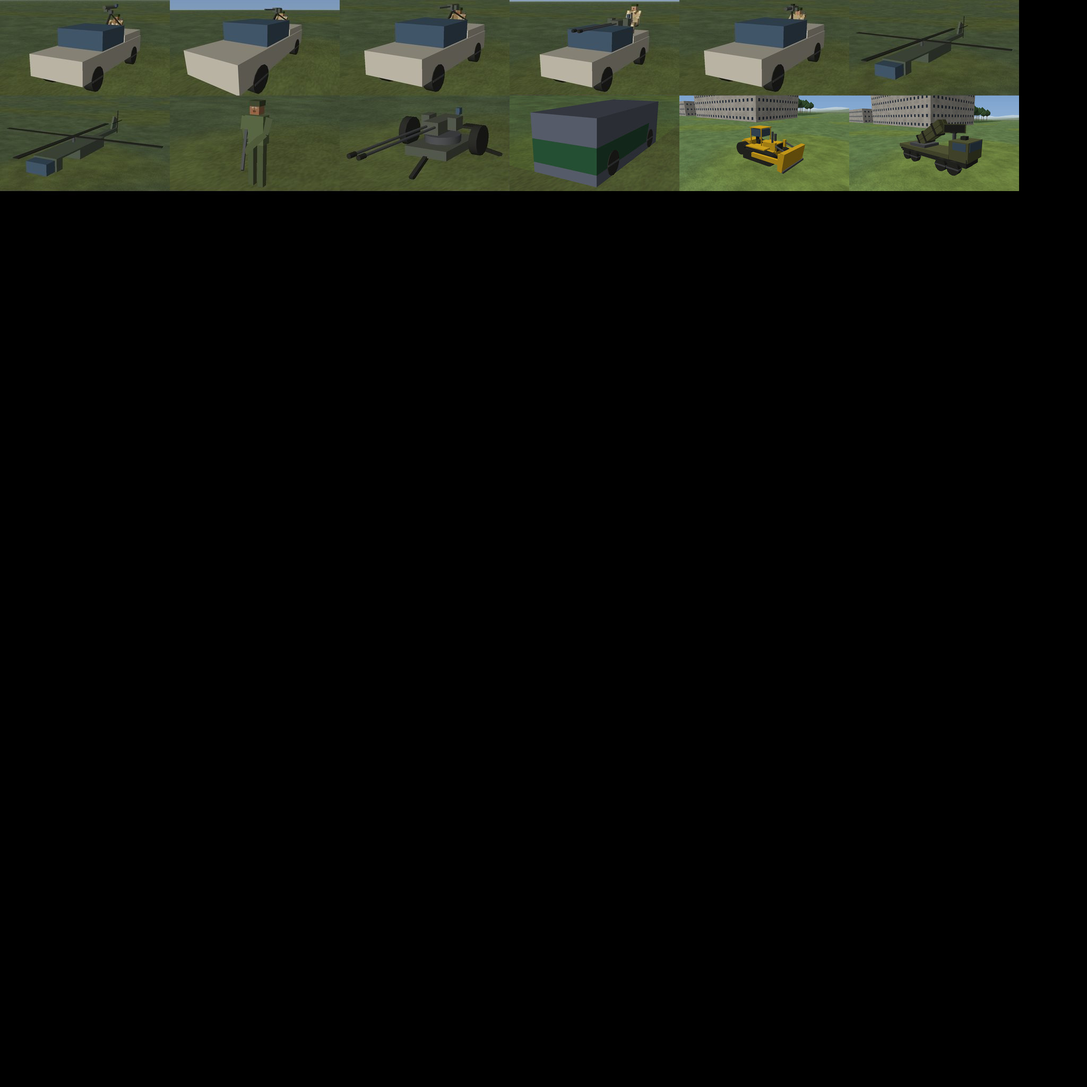
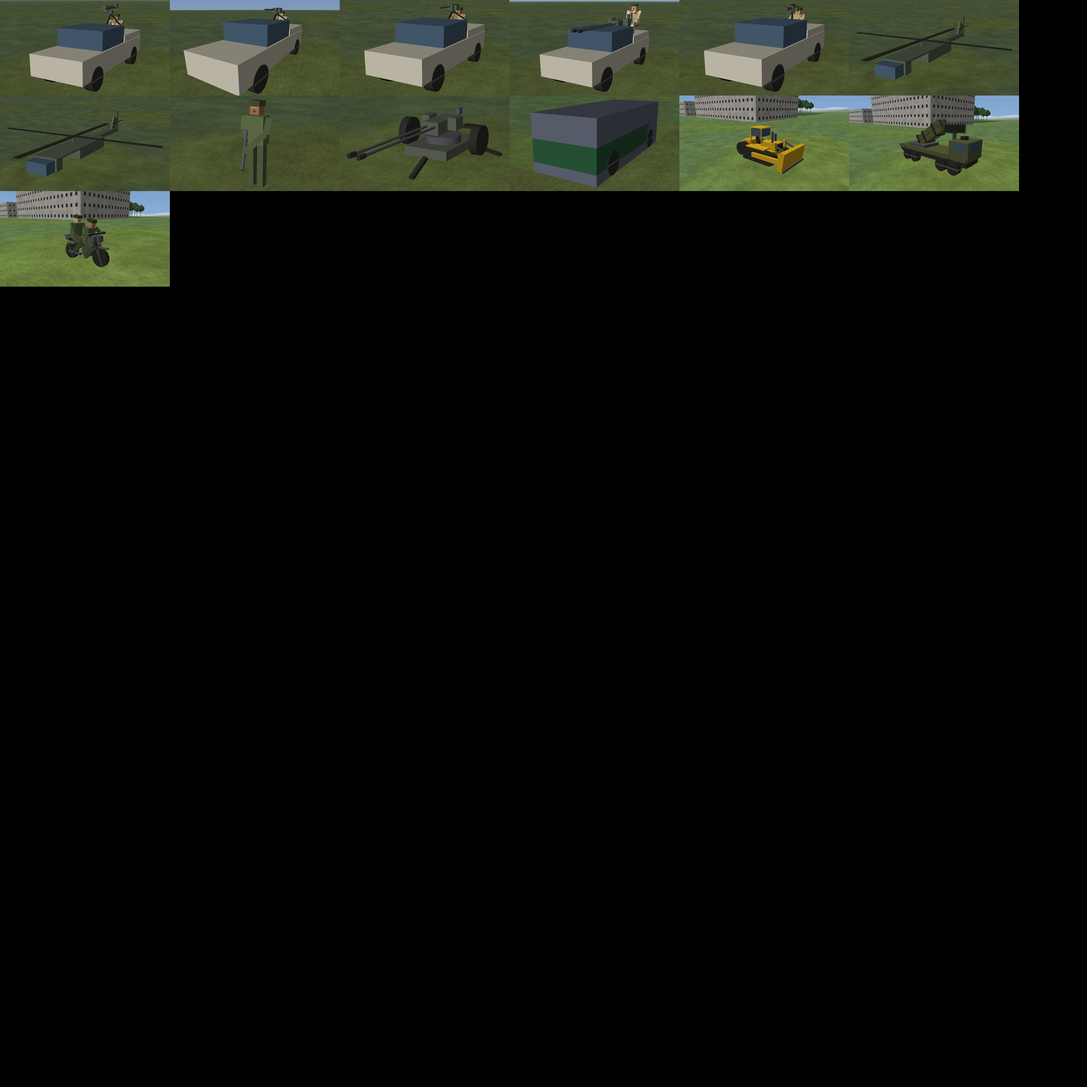
CE-4621 M-1v: bound to backend's type 115 / class Motorcycle / seats (Ride poses, kit fitted to its seat numbers), picker glyph + catalog goldens, thumbnail (atlas 79)
Cross-lane (said): NedTkbCatalog Motorcycle seats Pose Sit -> Ride and IconName car -> _motorcycle. The rider's seat has an arc (PF-4): it always stays on the bars; its wedge is drawn dimmer.

Claude-Session: https://claude.ai/code/session_018A6b3V2pAUU7h7gX44hUPF

Changed region(s): [[0.0, 0.1562, 0.1562, 0.2812]]

diff --git a/Hrot/Engine/Hrot.Presentation.Tests/Map3D/MotorcycleModelRail.cs b/Hrot/Engine/Hrot.Presentation.Tests/Map3D/MotorcycleModelRail.cs
@@ -23,39 +23,18 @@ namespace Hrot.Presentation.Tests.Map3D;
 /// ⭐⭐ <c>CE-4621</c> (motorcycle, docs/designs/vehicle-tactics/DESIGN_Motorcycle.md §2a, §6 M-1v; mockup <c>motorcycle-visuals.svg</c>; 🔒 user, 2026-11-15: <i>"the UI might take the visual part
 /// of it"</i>) — the motorcycle's 3-D model: the family and its kit (TWO wheels that roll, a tank, a long seat), the bank into a turn (a drawing only, 0 B), the two seated riders
 /// (<see cref="SeatPose.Ride"/>: the driver on the bars, a pillion holding on) and the pillion FIRING — his upper body turned to the aim, the rifle shouldered — on the real frame.
-/// ⏳ Type 115 / class <c>Motorcycle</c> / the seats are backend's (CE-4621 M-1 / M-2): until they land the rail draws a STAND-IN type (<see cref="StandIn"/>) with the agreed ids' shape
-/// (DIS 1.1.*.80.1, seat 0 Driver, seat 1 the pillion with an arc), its look pinned. ⛔ The frame tests SKIP without a display:
+/// ✅ Type 115 / class <c>Motorcycle</c> / the seats are backend's (CE-4621 M-1 / M-2, merged): the rail draws the REAL type through the real catalogue. ⛔ The frame tests SKIP without a display:
 /// <c>xvfb-run -a dotnet test … --filter FullyQualifiedName~MotorcycleModelRail</c>. 🔴 Red-proof: the bank removed from the layer fails the bank rail; the twist removed from
 /// <c>SeatedMotion</c> fails the firing-pose rail.
 /// </summary>
 [Collection(Map3DFrameRail.Serial)]
 public sealed class MotorcycleModelRail
 {
-    /// <summary>The stand-in's TKB id (never a shipped one) and size — backend's type 115 is 2.1 × 0.8 × 1.15 m by the kit's measure.</summary>
-    internal const long StandIn = 9115;
-    private static readonly Vector3 Size = new(2.1f, 0.8f, 1.15f);
+    /// <summary>⭐ Backend's REAL type 115 (CE-4621 M-1 / M-2: DIS 1.1.0.80.1, class <c>Motorcycle</c>, seat 0 the rider / Driver — fires only stopped, an arc −120…120 —, seat 1 the pillion, a firing seat 30…330), through the real catalogue.</summary>
+    internal const long StandIn = TkbEntityTypes.Motorcycle;
+    private static readonly Vector3 Size = new(2.1f, 0.8f, 1.2f);
 
-    /// <summary>The stand-in motorcycle in a TKB: the agreed shape of backend's type — DIS 1.1.0.80.1, seat 0 the Driver, seat 1 a pillion with an arc (both exposed, astride).</summary>
-    internal static Fdp.Toolkit.Tkb.TkbDatabase WithStandIn()
-    {
-        var db = Map3DTests.BuiltIn();
-        new Hrot.Map.Definitions.Tkb.NedTkbBuilder(db)
-            .DefineVehicle(StandIn, "Motorcycle (stand-in)")
-            .WithPhysics(StandIn, p => { p.Length = Size.X; p.Width = Size.Y; p.Height = Size.Z; p.MaxSpeed = 28f; p.Mobility = Hrot.Map.Definitions.Tkb.TerrainMobility.Wheeled; })
-            .WithCarrier(StandIn, new CarrierDefDto
-            {
-                Exposure = PassengerExposure.Open,
-                Seats =
-                {
-                    new SeatDto { Role = SeatRole.Driver, X = 0.02f, Z = 0.90f, Pose = SeatPose.Ride },
-                    new SeatDto { Role = SeatRole.Passenger, X = -0.52f, Z = 0.90f, Pose = SeatPose.Ride, TraverseMinDeg = 70f, TraverseMaxDeg = 290f },
-                },
-            })
-            .WithDisType(StandIn, new DISEntityType { Kind = 1, Domain = 1, Category = 80, Subcategory = 1 });
-        return db;
-    }
-
-    private static EntityBodyLayer3D.TypeLook StandInLook() => new(VisualFamily.Motorcycle, Size, EntityBodyLayer3D.DefaultColour(VisualFamily.Motorcycle), false);
+    internal static Fdp.Toolkit.Tkb.TkbDatabase WithStandIn() => Map3DTests.BuiltIn();
 
     // ── the kit ─────────────────────────────────────────────────────────────────────────────────────────────────────────────────
 
@@ -97,9 +76,33 @@ public sealed class MotorcycleModelRail
         Assert.InRange(minX, -1.15f, -0.95f);  // the rack / rear tyre
         Assert.InRange(maxY, 0.3f, 0.45f);     // the bars' grips
         Assert.InRange(minZ, -0.05f, 0.05f);   // on its wheels
-        Assert.InRange(maxZ, 1.0f, 1.2f);      // the bars
+        Assert.InRange(maxZ, 1.0f, 1.25f);     // the bars
         var wheels = ShapeKits.Motorcycle.Parts.Where(p => p.Role == PartRole.WheelSpoke).Select(p => p.BodyTransform(Size).Translation).OrderBy(t => t.X).ToArray();
         Assert.InRange(wheels[1].X - wheels[0].X, 1.3f, 1.5f);   // a 1.4 m wheelbase
+    }
+
+    /// <summary>⭐ CE-4621 — backend's class <c>Motorcycle</c> (DIS <c>1.1.*.80</c>, type 115) maps to the family, and the REAL type's family, size, seats and kit are the bike's: the kit's metres ARE the TKB's metres, both seats are astride, the hips are where the kit's seat is.</summary>
+    [Fact]
+    public void TheClass_MapsToTheFamily_AndTheRealType115IsTheBike_ItsSeatsAstride_ItsHipsOnTheKitsSeat()
+    {
+        Assert.Equal(VisualFamily.Motorcycle, VisualFamilies.FamilyOfClass["Motorcycle"]);
+        var bike = Map3DTests.BuiltIn().GetByType(TkbEntityTypes.Motorcycle)!;
+        Assert.Equal(VisualFamily.Motorcycle, VisualFamilies.Of(bike));
+        var tkb = Map3DTests.BuiltIn();
+        using var world = new EntityRepository();
+        var look = new EntityBodyLayer3D(() => world, () => tkb, (w, e) => ArticulationPose.Neutral).LookOf(TkbEntityTypes.Motorcycle, tkb);
+        Assert.Equal(VisualFamily.Motorcycle, look.Family);
+        Assert.InRange(look.Size.X, Size.X - 0.01f, Size.X + 0.01f); Assert.InRange(look.Size.Y, Size.Y - 0.01f, Size.Y + 0.01f);
+        Assert.InRange(look.Size.Z, Size.Z - 0.1f, Size.Z + 0.1f);   // the TKB's box wins: the kit's metres are the TKB's metres (its 1.2 m height may come from the render model)
+        var seats = bike.GetDescriptor<CarrierDefDto>()!.Seats;
+        Assert.Equal(2, seats.Count);
+        Assert.All(seats, s => Assert.Equal(SeatPose.Ride, s.Pose));
+        // the kit's seat carries them: the rider's hips (z 0.75) sit on the low seat (top 0.705), the pillion's (z 0.85) on the raised pad (top 0.805)
+        float TopOfSeatAt(float x) => ShapeKits.Motorcycle.Parts
+            .Where(p => p.Colour == ColourRole.Dark && p.Shape == PartShape.Box && MathF.Abs(p.Extent.Y * Size.Y - 0.28f) < 0.01f && MathF.Abs((p.Centre.X - x / Size.X) * Size.X) < 0.3f)
+            .Max(p => (p.Centre.Z + p.Extent.Z / 2f) * Size.Z);
+        Assert.InRange(seats[0].Z - TopOfSeatAt(seats[0].X), 0.0f, 0.12f);
+        Assert.InRange(seats[1].Z - TopOfSeatAt(seats[1].X), 0.0f, 0.12f);
     }
 
     // ── the motion: the wheels roll, a turn banks the body ──────────────────────────────────────────────────────────────────────
@@ -203,8 +206,8 @@ public sealed class MotorcycleModelRail
         Assert.Equal((CarriageKind.Seated, SeatPose.Ride, SeatRole.Driver), (driver.Kind, driver.Seat!.Pose, driver.Seat.Role));
         Assert.Equal((CarriageKind.Seated, SeatPose.Ride, SeatRole.Passenger), (pillion.Kind, pillion.Seat!.Pose, pillion.Seat.Role));
         Assert.True(pillion.Seat.X < driver.Seat.X, "the pillion sits behind");
-        Assert.Null(driver.Seat.TraverseMinDeg);
-        Assert.NotNull(pillion.Seat.TraverseMinDeg);
+        Assert.True(driver.Seat.FiresStoppedOnly && driver.Seat.TraverseMinDeg != null, "the rider: an arc, fires only stopped (PF-4)");
+        Assert.True(pillion.Seat.TraverseMinDeg != null && !pillion.Seat.FiresStoppedOnly, "the pillion: a firing seat");
     }
 
     // ── ⭐ U-3: the pillion in first person — the HUD cue outside the seat's arc ───────────────────────────────────────────────────
@@ -244,11 +247,13 @@ public sealed class MotorcycleModelRail
         var driver = Rider(0); var pillion = Rider(1);
         var at = new Vector3(100f, 50f, 1f);
         Assert.True(PossessionStation.OutsideSeatArc(world, pillion, at + new Vector3(30f, 0f, 0f)), "dead ahead: across the rider — out of arc");
-        Assert.True(PossessionStation.OutsideSeatArc(world, pillion, at + new Vector3(20f, 20f, 0f)), "45° ahead-left: out of arc");
+        Assert.True(PossessionStation.OutsideSeatArc(world, pillion, at + new Vector3(30f, 8f, 0f)), "15° ahead-left: out of arc");
+        Assert.False(PossessionStation.OutsideSeatArc(world, pillion, at + new Vector3(20f, 20f, 0f)), "45°: in (the arc is 30° … 330°)");
         Assert.False(PossessionStation.OutsideSeatArc(world, pillion, at + new Vector3(0f, 30f, 0f)), "left: in");
         Assert.False(PossessionStation.OutsideSeatArc(world, pillion, at + new Vector3(0f, -30f, 0f)), "right: in");
         Assert.False(PossessionStation.OutsideSeatArc(world, pillion, at + new Vector3(-30f, 0f, 0f)), "behind: in");
-        Assert.False(PossessionStation.OutsideSeatArc(world, driver, at + new Vector3(30f, 0f, 0f)), "the driver's seat states no arc: no cue (his fire is held by the move gate, PF-4)");
+        Assert.False(PossessionStation.OutsideSeatArc(world, driver, at + new Vector3(30f, 0f, 0f)), "the rider's arc is the front and sides (−120° … 120°): ahead is in");
+        Assert.True(PossessionStation.OutsideSeatArc(world, driver, at + new Vector3(-30f, 0f, 0f)), "behind the rider: out of his arc");
         // the bike turns right 90° (heading −y): what was behind is now to its left-rear... and "ahead" of the world is its left side
         world.SetComponent(bike, new SimTransform { Position = new Vector3(100f, 50f, 0f), Rotation = Quaternion.CreateFromAxisAngle(Vector3.UnitZ, -MathF.PI / 2f) });
         Assert.False(PossessionStation.OutsideSeatArc(world, pillion, at + new Vector3(30f, 0f, 0f)), "world +x is the turned bike's LEFT: in");
@@ -257,7 +262,7 @@ public sealed class MotorcycleModelRail
         var foot = world.CreateEntity();
         world.AddComponent(foot, new SimTransform { Position = Vector3.Zero, Rotation = Quaternion.Identity });
         Assert.False(PossessionStation.OutsideSeatArc(world, foot, new Vector3(30f, 0f, 0f)));
-        for (int i = 0; i < 100; i++) PossessionStation.OutsideSeatArc(world, pillion, at + new Vector3(30f, 0f, 0f));
+        for (int i = 0; i < 5000; i++) PossessionStation.OutsideSeatArc(world, pillion, at + new Vector3(30f, 0f, 0f));   // warm (the tiered JIT too)
         long before = GC.GetAllocatedBytesForCurrentThread();
         for (int i = 0; i < 2000; i++) PossessionStation.OutsideSeatArc(world, pillion, at + new Vector3(30f, 0f, 0f));
         Assert.Equal(0L, GC.GetAllocatedBytesForCurrentThread() - before);   // ⭐ per-frame HUD: 0 B
@@ -283,7 +288,7 @@ public sealed class MotorcycleModelRail
         Assert.True(SeatSwitch.TryEye(world, Rider(1), db, out var pillion));
         Assert.True(driver.Y > pillion.Y + 0.4f, $"facing +y: the driver is ahead of the pillion ({driver} / {pillion})");
         Assert.InRange(driver.X, 99.9f, 100.1f);
-        Assert.InRange(driver.Z, 3f + 0.9f + 0.5f, 3f + 0.9f + 0.8f);   // the seat's z + his eyes above his hips
+        Assert.InRange(driver.Z, 3f + 0.75f + 0.5f, 3f + 0.75f + 0.9f);   // the seat's z + his eyes above his hips
     }
 
     /// <summary>⭐ The fire arc on the maps (mockup panels C, D): the selected bike's pillion seat draws an amber wedge, its edges and arc, from the seat's place; the driver's seat (no arc) and a station draw nothing.</summary>
@@ -298,20 +303,19 @@ public sealed class MotorcycleModelRail
         world.AddComponent(bike, new TkbIdentity { TkbType = (TkbTypeId)StandIn });
         var draw = new ArcDraw();
         new Hrot.ScenarioEditor.Gizmos.SeatArcGizmo().Draw(world, bike, draw);
-        // 70 … 290 = 220° of arc: two edges + 22 segments, all from / around the pillion's place (x −0.52 behind the reference point)
-        Assert.Equal(2 + 22, draw.Lines.Count);
-        var edges = draw.Lines.Take(2).ToArray();
-        Assert.All(edges, l => Assert.Equal(new Vector3(100f - 0.52f, 50f, 0f), l.From));
-        // the first edge is the arc's start (70°, ahead-left), the second its end (290°, ahead-right): neither is dead ahead, both point forward-ish of the sides
-        Assert.True(edges[0].To.X > 100f - 0.52f && edges[0].To.Y > 50f, "70° is left and a little ahead");
-        Assert.True(edges[1].To.X > 100f - 0.52f && edges[1].To.Y < 50f, "290° is right and a little ahead");
-        Assert.All(draw.Lines.Skip(2), l => Assert.InRange(Vector3.Distance(l.From, new Vector3(100f - 0.52f, 50f, 0f)), SeatArcGizmoRange - 0.1f, SeatArcGizmoRange + 0.1f));
-        // the bike turned 180°: the wedge turns with it (the rear is now toward +x)
+        // the rider's arc (−120 … 120 = 240°: two edges + 24 segments) then the pillion's (30 … 330 = 300°: two edges + 30 segments)
+        Assert.Equal(26 + 32, draw.Lines.Count);
+        var pillionOrigin = new Vector3(100f - 0.45f, 50f, 0f);
+        var pillion = draw.Lines.Skip(26).ToArray();
+        Assert.All(pillion.Take(2), l => Assert.Equal(pillionOrigin, l.From));
+        Assert.True(pillion[0].To.X > pillionOrigin.X && pillion[0].To.Y > 50f, "30° is left and ahead");
+        Assert.True(pillion[1].To.X > pillionOrigin.X && pillion[1].To.Y < 50f, "330° is right and ahead");
+        Assert.All(pillion.Skip(2), l => Assert.InRange(Vector3.Distance(l.From, pillionOrigin), SeatArcGizmoRange - 0.1f, SeatArcGizmoRange + 0.1f));
+        // the bike turned 180°: the pillion's wedge turns with it (its rear, the middle of the arc, is now toward +x)
         world.SetComponent(bike, new SimTransform { Position = new Vector3(100f, 50f, 0f), Rotation = Quaternion.CreateFromAxisAngle(Vector3.UnitZ, MathF.PI) });
         var turned = new ArcDraw();
         new Hrot.ScenarioEditor.Gizmos.SeatArcGizmo().Draw(world, bike, turned);
-        Assert.True(turned.Lines.Skip(2).Average(l => l.To.X) > 100f + 10f, "the arc of the rear now lies to +x");
-        Assert.Equal(0, new ArcDraw().Lines.Count);
+        Assert.True(turned.Lines.Skip(26 + 2).Average(l => l.To.X) > 100f + 3f, "the arc of the rear now lies to +x");
     }
 
     private const float SeatArcGizmoRange = Hrot.ScenarioEditor.Gizmos.SeatArcGizmo.Range;
@@ -378,7 +382,6 @@ public sealed class MotorcycleModelRail
         var two = new MapCamera();
         canvas.Camera = two;
         var bodies = new EntityBodyLayer3D(() => world, () => tkb, (w, e) => pose);
-        bodies.PinLook(StandIn, StandInLook());   // ⏳ until backend's class `Motorcycle` is in the table
         var sw = new MapViewSwitch(canvas, two);
         sw.Camera3D.GroundHeight = (x, y) => G(x, y);
         canvas.AddLayer(new TerrainLayer3D(() => WorldQuery.RenderGeometryOf(world)));
@@ -434,6 +437,12 @@ public sealed class MotorcycleModelRail
         var turning = Screen("moto-4-banked-front.png");
         for (int i = 0; i < 40; i++) { Clock(0.05); Place(at, yaw); LookAtBike(7f, yaw + MathF.PI + 0.35f, -0.05f); Render(); }   // stopped: the bank eases off (0.15 s)
         var upright = Screen("moto-4b-upright-front.png");
+        // the gallery picture (the picker's thumbnail), to the scratchpad only: the bike and its two riders alone, at rest, from the front three-quarter
+        foreach (var gone in new[] { target }) world.DestroyEntity(gone);
+        Place(new Vector3(spot.X, spot.Y, ground), 0f);
+        for (int i = 0; i < 40; i++) { Clock(0.05); Render(); }
+        sw.Camera3D.Pose = new CameraPose(new Vector3(spot.X, spot.Y, ground + 0.85f), 4.6f, Side + 0.75f, -0.18f);
+        Screen("moto-6-thumb.png");
         Assert.True(Diff(upright, turning) > 800, $"a turning bike is drawn banked (differs from the upright one by {Diff(upright, turning)} px)");
     }
 

diff --git a/Hrot/Engine/Hrot.Presentation/Map3D/ShapeKit.cs b/Hrot/Engine/Hrot.Presentation/Map3D/ShapeKit.cs
@@ -640,7 +640,7 @@ public static class ShapeKits
         new KitPivots(new Vector2(SamAxisX / SaL, 0f), new Vector2(SamTrunnionX / SaL, SamTrunnionZ / SaH)));
 
     // ── ⭐ CE-4621 (docs/designs/vehicle-tactics/DESIGN_Motorcycle.md §2a, U-2) — the MOTORCYCLE: two wheels, a tank, a long seat, a rack; the riders are men drawn at the seats ─────
-    private const float MoL = 2.1f, MoW = 0.8f, MoH = 1.15f;   // a 250-500 cc bike: 2.1 m long, 0.8 m across the bars, 1.15 m to the bars (the riders sit above)
+    private const float MoL = 2.1f, MoW = 0.8f, MoH = 1.2f;   // backend's type 115: 2.1 m long, 0.8 m across the bars, 1.2 m to the bars (the riders sit above)
     /// <summary>The motorcycle's wheel radius (m) — what its wheels roll on (<see cref="MotionTracker"/>), a 0.62 m tyre.</summary>
     public const float MotoWheelRadius = 0.31f;
 
@@ -664,8 +664,8 @@ public static class ShapeKits
         {
             p.Add(Mo(-0.52f, s * 0.10f, 0.39f, 0.48f, 0.04f, 0.05f, ColourRole.Dark, pitch: -22f));   // the swing arm, from the pivot to the rear axle
             p.Add(Mo(0.65f, s * 0.07f, 0.66f, 0.04f, 0.03f, 0.80f, ColourRole.Metal, pitch: -8f));    // a fork leg, raked back
-            p.Add(Mo(0.18f, s * 0.22f, 0.40f, 0.06f, 0.08f, 0.03f, ColourRole.Metal));                 // the rider's foot peg
-            p.Add(Mo(-0.34f, s * 0.22f, 0.40f, 0.06f, 0.08f, 0.03f, ColourRole.Metal));                // the pillion's foot peg
+            p.Add(Mo(0.26f, s * 0.24f, 0.27f, 0.06f, 0.08f, 0.03f, ColourRole.Metal));                 // the rider's foot peg (his hips are backend's seat 0: x 0.1, z 0.75)
+            p.Add(Mo(-0.29f, s * 0.24f, 0.37f, 0.06f, 0.08f, 0.03f, ColourRole.Metal));                // the pillion's foot peg (seat 1: x −0.45, z 0.85)
             p.Add(Mo(0.55f, s * 0.38f, 1.08f, 0.07f, 0.10f, 0.05f, ColourRole.Dark));                  // a grip
         }
         p.Add(Mo(0.70f, 0f, 0.65f, 0.55f, 0.12f, 0.04f, ColourRole.Body));                    // the front mudguard
@@ -673,8 +673,9 @@ public static class ShapeKits
         p.Add(Mo(0.725f, 0f, 0.93f, 0.02f, 0.16f, 0.16f, ColourRole.Glass));                  // its lens
         p.Add(Mo(0.55f, 0f, 1.08f, 0.05f, 0.74f, 0.04f, ColourRole.Dark));                    // the handlebar
         p.Add(Mo(0.28f, 0f, 0.90f, 0.50f, 0.30f, 0.20f, ColourRole.Body));                    // the fuel tank
-        p.Add(Mo(-0.28f, 0f, 0.80f, 1.05f, 0.28f, 0.09f, ColourRole.Dark));                   // the long seat for two
-        p.Add(Mo(-0.80f, 0f, 0.82f, 0.30f, 0.22f, 0.12f, ColourRole.Body));                   // the tail
+        p.Add(Mo(-0.05f, 0f, 0.66f, 0.60f, 0.28f, 0.09f, ColourRole.Dark));                   // the seat: the rider's low front (top 0.705, his hips at 0.75)
+        p.Add(Mo(-0.50f, 0f, 0.76f, 0.50f, 0.28f, 0.09f, ColourRole.Dark));                   // the pillion's raised pad (top 0.805, his hips at 0.85)
+        p.Add(Mo(-0.82f, 0f, 0.80f, 0.30f, 0.22f, 0.14f, ColourRole.Body));                   // the tail
         p.Add(Mo(-0.92f, 0f, 0.90f, 0.22f, 0.30f, 0.03f, ColourRole.Metal));                  // the rear rack
         p.Add(Mo(-0.72f, 0f, 0.60f, 0.40f, 0.18f, 0.04f, ColourRole.Body));                   // the rear mudguard
         p.Add(Mo(-0.35f, -0.19f, 0.32f, 0.65f, 0.08f, 0.08f, ColourRole.Metal));              // the exhaust, on the right

diff --git a/Hrot/Engine/Hrot.Presentation/ScenarioEditor/Gizmos/SeatArcGizmo.cs b/Hrot/Engine/Hrot.Presentation/ScenarioEditor/Gizmos/SeatArcGizmo.cs
@@ -23,7 +23,7 @@ namespace Hrot.ScenarioEditor.Gizmos
         /// <summary>The wedge's reach (m) and the arc's segment step (degrees).</summary>
         public const float Range = 30f, StepDegrees = 10f;
 
-        private static readonly Rgba32 Amber = new(242, 192, 51, 230);
+        private static readonly Rgba32 Amber = new(242, 192, 51, 230), Stopped = new(170, 140, 70, 150);
 
         public void Draw(ISimulationView view, Entity entity, IDebugDrawBuilder draw)
         {
@@ -40,27 +40,27 @@ namespace Hrot.ScenarioEditor.Gizmos
                 var seat = seats[i];
                 if (seat.TraverseMinDeg is not { } min || seat.TraverseMaxDeg is not { } max || seat.Role == SeatRole.Station) continue;
                 var origin = position + Vector3.Transform(new Vector3(seat.X, seat.Y, 0f), tf.Rotation);
-                Arc(draw, origin, tf.Rotation, min, max);
+                Arc(draw, origin, tf.Rotation, min, max, seat.FiresStoppedOnly ? Stopped : Amber);   // the rider's (fires only stopped) in a dimmer amber
             }
         }
 
         /// <summary>The wedge of <paramref name="min"/> … <paramref name="max"/> (degrees, counter-clockwise from the vehicle's forward, Min round to Max): the two edges and an arc of segments (public for the rail).</summary>
-        public static void Arc(IDebugDrawBuilder draw, Vector3 origin, Quaternion rotation, float minDeg, float maxDeg)
+        public static void Arc(IDebugDrawBuilder draw, Vector3 origin, Quaternion rotation, float minDeg, float maxDeg, Rgba32 colour)
         {
             float span = (maxDeg - minDeg) % 360f;
             if (span <= 0f) span += 360f;
             Vector3 At(float deg) => origin + Vector3.Transform(new Vector3(MathF.Cos(deg * MathF.PI / 180f), MathF.Sin(deg * MathF.PI / 180f), 0f) * Range, rotation);
             if (span < 359.9f)
             {
-                draw.DrawLine(origin, At(minDeg), Amber, thickness: 1.6f, layer: DebugTraceLayers.Actions);
-                draw.DrawLine(origin, At(minDeg + span), Amber, thickness: 1.6f, layer: DebugTraceLayers.Actions);
+                draw.DrawLine(origin, At(minDeg), colour, thickness: 1.6f, layer: DebugTraceLayers.Actions);
+                draw.DrawLine(origin, At(minDeg + span), colour, thickness: 1.6f, layer: DebugTraceLayers.Actions);
             }
             int steps = Math.Max(1, (int)MathF.Ceiling(span / StepDegrees));
             var from = At(minDeg);
             for (int s = 1; s <= steps; s++)
             {
                 var to = At(minDeg + span * s / steps);
-                draw.DrawLine(from, to, Amber, thickness: 1.2f, layer: DebugTraceLayers.Actions, style: LineStyle.Dashed);
+                draw.DrawLine(from, to, colour, thickness: 1.2f, layer: DebugTraceLayers.Actions, style: LineStyle.Dashed);
                 from = to;
             }
         }

diff --git a/Hrot/Engine/Hrot.Presentation.Tests/AddEntity/EntityTypeCatalogTests.cs b/Hrot/Engine/Hrot.Presentation.Tests/AddEntity/EntityTypeCatalogTests.cs
@@ -344,8 +344,8 @@ public sealed class EntityTypeCatalogTests
         // ⭐ CE-4273 (Next_2 A-10) — the seed's 75 + the Car. ⛔ SUPERSEDED: "slot = position in sorted order" — true of the seed only; §2j says a name
         //   KEEPS its slot and an addition takes the next free one (the Car sorts among the C's and sits in slot 75). The invariant now: one cell per
         //   name, on the grid, inside the pages.
-        Assert.Equal(78, idx.Count);   // ⭐ CE-6007 — + the bulldozer (page 1, slot 4/1); ⭐ CE-4618 — + the radar SAM truck (page 1, slot 5/1)
-        Assert.Equal(78, ThumbnailAtlas.Shared.Count);
+        Assert.Equal(79, idx.Count);   // ⭐ CE-6007 — + the bulldozer (page 1, slot 4/1); ⭐ CE-4618 — + the radar SAM truck (page 1, slot 5/1); ⭐ CE-4621 — + the motorcycle (page 1, slot 0/2)
+        Assert.Equal(79, ThumbnailAtlas.Shared.Count);
         Assert.True(idx.TryGet("Car", out _, out _, out _, out _, out _));
 
         var names = idx.Names.ToList();
@@ -609,6 +609,7 @@ public sealed class EntityTypeCatalogTests
         112 Bulldozer (D9-class) | dis 1.1.225.9.1.0.0 | family Bulldozer | folder Platform/Land/United States/Large Tracked Utility Vehicle | icon -
         113 HMMWV (drone jammer) | dis 1.1.225.6.9.0.0 | family WheeledUtility | folder Platform/Land/United States/Small Wheeled Utility Vehicle | icon _wheeled
         114 Radar SAM vehicle | dis 1.1.222.28.1.0.0 | family AirDefenceVehicle | folder Platform/Land/Russia/Air Defence Vehicle | icon _wheeled
+        115 Motorcycle | dis 1.1.0.80.1.0.0 | family Motorcycle | folder Platform/Land/Motorcycle | icon _motorcycle
         200 Rifleman | dis 3.1.225.1.0.0.0 | family Person | folder Life Form/Land/United States/Infantry (HROT) | icon _person
         201 Officer | dis 3.1.225.1.0.0.0 | family Person | folder Life Form/Land/United States/Infantry (HROT) | icon _person
         202 Rifleman (Stinger) | dis 3.1.225.1.0.0.0 | family Person | folder Life Form/Land/United States/Infantry (HROT) | icon _person
@@ -723,6 +724,7 @@ public sealed class EntityTypeCatalogTests
         1.1.*.10 Mortar
         1.1.*.28 Air Defence Vehicle
         1.1.*.50 Weapon System (HROT)
+        1.1.*.80 Motorcycle
         1.1.*.81 Car
         1.2 Air
         1.2.*.1 Fighter/Air Defense

diff --git a/Hrot/Engine/Hrot.Core/MapDefinitions/Tkb/NedTkbCatalog.cs b/Hrot/Engine/Hrot.Core/MapDefinitions/Tkb/NedTkbCatalog.cs
@@ -600,7 +600,7 @@ namespace Hrot.Map.Definitions.Tkb
             const long type = TkbEntityTypes.Motorcycle;
             builder
                 .DefineVehicle(type, "Motorcycle")
-                .WithVisual(type, v => { v.IconName = "car"; v.SymbolCode = "SHGPEVC--------"; v.ColorHex = "#5C5C5C"; v.Scale = 0.6f; })
+                .WithVisual(type, v => { v.IconName = "_motorcycle"; v.SymbolCode = "SHGPEVC--------"; v.ColorHex = "#5C5C5C"; v.Scale = 0.6f; })   // ⭐ ui (CE-4621): IconName = its own picker glyph (assets/icons/_motorcycle)
                 .WithPhysics(type, p =>
                 {
                     p.Mass = 200; p.Length = 2.1f; p.Width = 0.8f; p.Height = 1.2f;
@@ -625,11 +625,11 @@ namespace Hrot.Map.Definitions.Tkb
                     {
                         // ⭐ PF-4 — the rider: a firing seat (front and sides) that fires only while the bike is STOPPED — he drives
                         new SeatDto { Role = Fdp.Toolkit.Behavior.Components.SeatRole.Driver, Exposed = true,
-                                      X = 0.1f, Z = 0.75f, Pose = Fdp.Toolkit.Tkb.Domain.SeatPose.Sit,
+                                      X = 0.1f, Z = 0.75f, Pose = Fdp.Toolkit.Tkb.Domain.SeatPose.Ride,   // ⭐ ui (CE-4621 U-2): astride, the 3-D map's figure
                                       TraverseMinDeg = -120f, TraverseMaxDeg = 120f, FiresStoppedOnly = true },
                         // ⭐ PF-1 — the pillion: a passenger seat with a traverse arc ⇒ a FIRING seat (his own weapon, inside the arc)
                         new SeatDto { Role = Fdp.Toolkit.Behavior.Components.SeatRole.Passenger, Exposed = true,
-                                      X = -0.45f, Z = 0.85f, Pose = Fdp.Toolkit.Tkb.Domain.SeatPose.Sit,
+                                      X = -0.45f, Z = 0.85f, Pose = Fdp.Toolkit.Tkb.Domain.SeatPose.Ride,
                                       TraverseMinDeg = 30f, TraverseMaxDeg = 330f },
                     },
                 })

diff --git a/Hrot/Engine/Hrot.Presentation/Map3D/EntityBodyLayer3D.cs b/Hrot/Engine/Hrot.Presentation/Map3D/EntityBodyLayer3D.cs
@@ -1395,9 +1395,9 @@ public sealed class EntityBodyLayer3D : ISceneLayer, IDisposable   // ⭐ CE-328
     /// <summary>The most a rider on a firing seat turns his upper body off the seat's forward (radians, ~160°) — the seat's own arc is the limit (PF-1), this one only keeps the drawing human.</summary>
     public const float MaxSeatTwist = 160f * MathF.PI / 180f;
 
-    /// <summary>⭐ CE-4621 — a soldier on a FIRING seat (a traverse arc on a non-station seat, PF-1) whose weapon brain has the rifle up (Aimed): drawn with it shouldered.</summary>
+    /// <summary>⭐ CE-4621 — a soldier on a FIRING seat (a traverse arc on a non-station, non-DRIVER seat, PF-1) whose weapon brain has the rifle up (Aimed): drawn with it shouldered. ⛔ The driver (backend's rider seat has an arc, PF-4: fires only stopped) always stays on the bars — LD-9.</summary>
     private static bool FiringAimed(EntityRepository world, Entity e, Fdp.Toolkit.Tkb.Domain.SeatDto seat, bool soldier)
-        => soldier && seat.Role != Fdp.Toolkit.Behavior.Components.SeatRole.Station && seat.TraverseMinDeg != null && seat.TraverseMaxDeg != null
+        => soldier && seat.Role is not (Fdp.Toolkit.Behavior.Components.SeatRole.Station or Fdp.Toolkit.Behavior.Components.SeatRole.Driver) && seat.TraverseMinDeg != null && seat.TraverseMaxDeg != null
            && PostureOf(world, e) == WeaponPostureKind.Aimed;
 
     /// <summary>

diff --git a/Hrot/Engine/Hrot.Presentation.Tests/Map3D/Map3DTests.cs b/Hrot/Engine/Hrot.Presentation.Tests/Map3D/Map3DTests.cs
@@ -40,7 +40,7 @@ public sealed class Map3DTests
         var d = t.DisType;
         if (d.Kind == 3) return "_person";
         if (d.Kind == 1 && d.Domain == 1)
-            return d.Category switch { 1 or 4 => "_tank", 2 => "_afv", 3 or 6 or 7 or 28 or 81 => "_wheeled", _ => null };   // ⭐ CE-4618: 28 (the radar SAM truck) is a wheeled body on the picker too   // ⭐ IF-1: 4 (SP artillery) moved on purpose
+            return d.Category switch { 1 or 4 => "_tank", 2 => "_afv", 3 or 6 or 7 or 28 or 81 => "_wheeled", 80 => "_motorcycle", _ => null };   // ⭐ CE-4618: 28 (the radar SAM truck) is a wheeled body on the picker too   // ⭐ IF-1: 4 (SP artillery) moved on purpose
         return null;
     }
 
@@ -527,6 +527,7 @@ public sealed class Map3DTests
                 3 or 6 or 7 => VisualFamily.WheeledUtility,
                 4 => VisualFamily.SpArtillery, 5 or 10 or 50 => VisualFamily.WeaponSystem,   // ⭐ CE-1087 / CE-1089 — deliberately moved off Unknown
                 28 => VisualFamily.AirDefenceVehicle,   // ⭐ CE-4618 — the radar SAM truck's class (1.1.*.28), deliberately new
+                80 => VisualFamily.Motorcycle,   // ⭐ CE-4621 — the motorcycle's class (1.1.*.80), deliberately new
                 _ => VisualFamily.Unknown,
             };
         if (d.Kind == 1 && d.Domain == 2)

diff --git a/Hrot/Engine/Hrot.Presentation/Map3D/BlockFigureRiding.cs b/Hrot/Engine/Hrot.Presentation/Map3D/BlockFigureRiding.cs
@@ -15,8 +15,8 @@ public static partial class BlockFigure
     /// <summary>The upper body's forward lean (radians) of a driver over the bars (~17°) and of a pillion (~7°).</summary>
     public const float DriverLean = 0.30f, PillionLean = 0.12f;
 
-    /// <summary>The bars' hands, relative to the driver's hips (m): forward, either side, and a little above the hips; a pillion's on the driver's waist.</summary>
-    private static readonly Vector3 BarsHand = new(0.53f, 0.36f, 0.20f), WaistHand = new(0.44f, 0.22f, 0.12f);
+    /// <summary>The bars' hands, relative to the driver's hips (m; backend's seat 0 at z 0.75, the bars at 1.08): forward, either side, above the hips; a pillion's on the driver's waist (0.55 m ahead).</summary>
+    private static readonly Vector3 BarsHand = new(0.45f, 0.36f, 0.33f), WaistHand = new(0.50f, 0.22f, -0.02f);
 
     private static KitPart[] RideLegs()
         => Legs(new(0f, 0.11f, 0f), new(0.16f, 0.24f, -0.46f), new(0f, -0.11f, 0f), new(0.16f, -0.24f, -0.46f), swings: false, bend: new Vector3(1f, 0f, 0.2f));

diff --git a/Hrot/Engine/Hrot.Presentation/Map3D/VisualFamily.cs b/Hrot/Engine/Hrot.Presentation/Map3D/VisualFamily.cs
@@ -83,6 +83,7 @@ public static class VisualFamilies
         ["AttackAircraft"] = VisualFamily.AttackJet,    // ⭐ CE-1092 — more specific than Jet, so the A-10 is not an F-16
         ["AttackHelicopter"] = VisualFamily.AttackHelicopter,   // ⭐ CE-1103 — more specific than Helicopter, so the AH-64 is not a UH-60
         ["Bulldozer"] = VisualFamily.Bulldozer,         // ⭐ CE-6007 — more specific than LargeTrackedUtilityVehicle (which has no family of its own)
+        ["Motorcycle"] = VisualFamily.Motorcycle,       // ⭐ CE-4621 — the motorcycle (DIS 1.1.*.80, type 115)
         ["AirDefenceVehicle"] = VisualFamily.AirDefenceVehicle,   // ⭐ CE-4618 — the radar SAM truck (DIS 1.1.*.28, type 114)
     };
 
